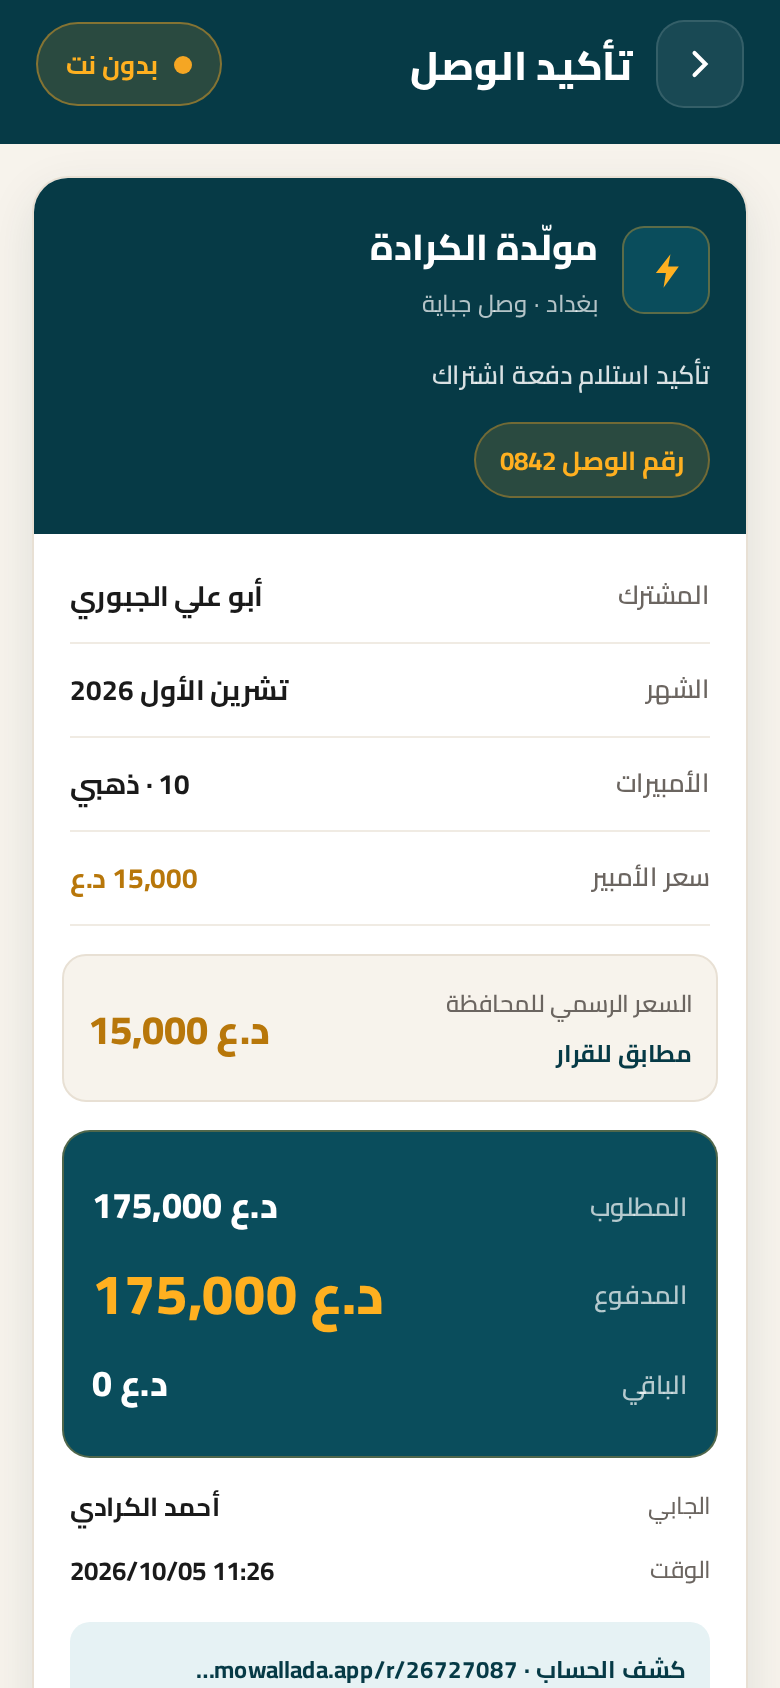
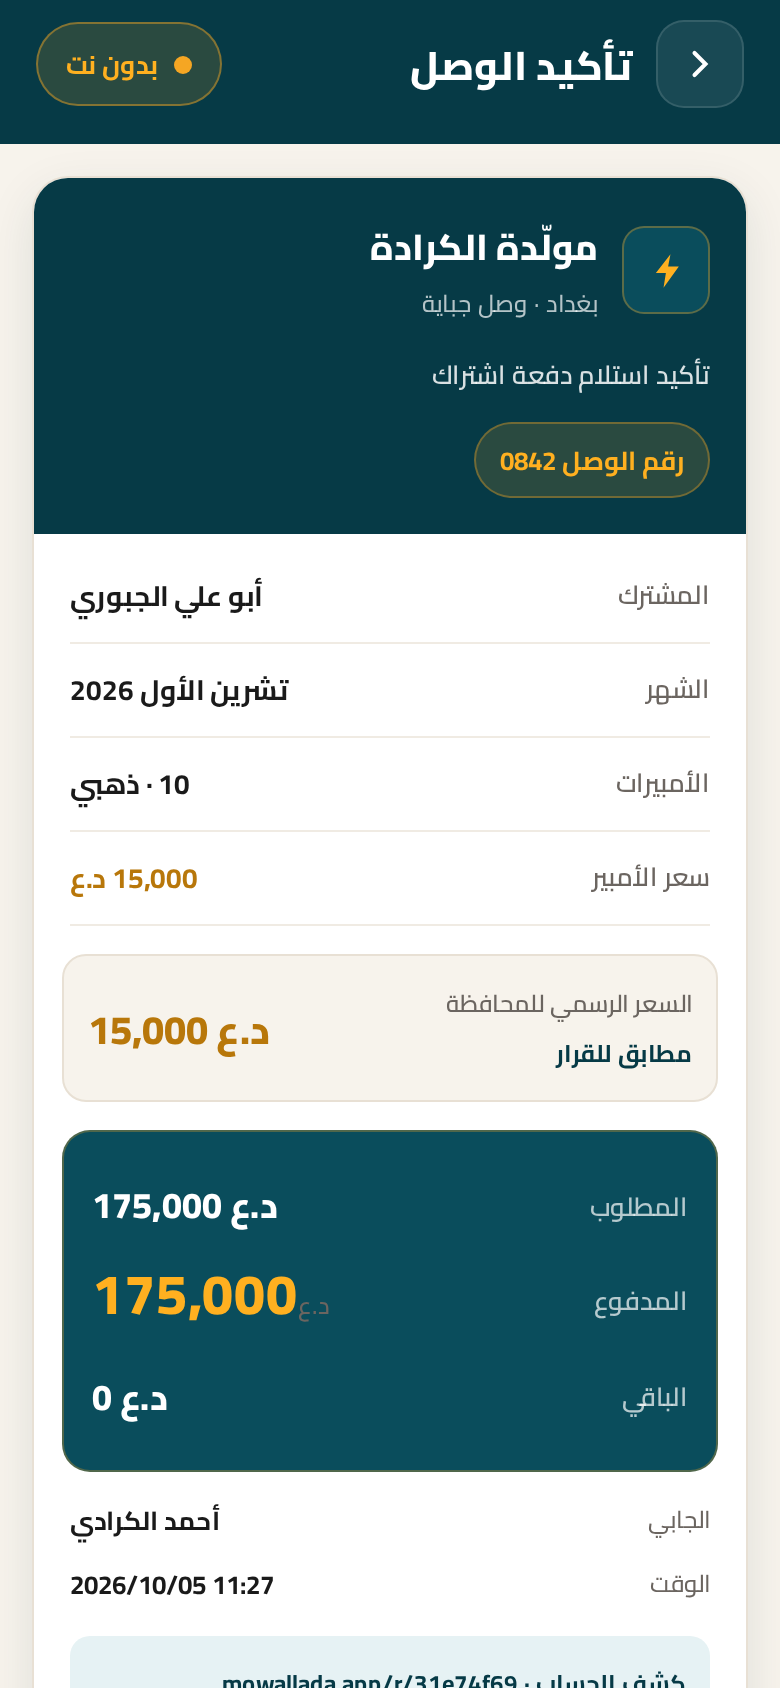
Render IQD amounts as number-then-unit in an LTR row
Stops RTL from flipping AmountText to د.ع 15,000 on the list cards.

diff --git a/src/components/AmountText.tsx b/src/components/AmountText.tsx
@@ -1,7 +1,7 @@
 import React from 'react';
-import { Text, StyleSheet, TextStyle } from 'react-native';
+import { Text, View, StyleSheet, TextStyle, ViewStyle } from 'react-native';
 import { colors, fonts } from '../theme';
-import { formatIqd, formatIqdWithUnit } from '../utils/money';
+import { formatIqd } from '../utils/money';
 
 interface Props {
   amount: number;
@@ -10,38 +10,59 @@ interface Props {
   showUnit?: boolean;
   unitSize?: number;
   style?: TextStyle;
+  containerStyle?: ViewStyle;
 }
 
+/** Always renders as "15,000 د.ع" via an LTR row (number then unit). */
 export function AmountText({
   amount,
   size = 28,
   color = colors.money,
   showUnit = true,
+  unitSize,
   style,
+  containerStyle,
 }: Props) {
-  if (!showUnit) {
-    return (
+  return (
+    <View style={[styles.row, containerStyle]}>
       <Text
-        style={[styles.amt, { fontSize: size, color, lineHeight: size * 1.15 }, style]}
+        style={[
+          styles.amt,
+          { fontSize: size, color, lineHeight: size * 1.2 },
+          style,
+        ]}
       >
         {formatIqd(amount)}
       </Text>
-    );
-  }
-
-  return (
-    <Text
-      style={[styles.amt, { fontSize: size, color, lineHeight: size * 1.15 }, style]}
-    >
-      {formatIqdWithUnit(amount)}
-    </Text>
+      {showUnit ? (
+        <Text
+          style={[
+            styles.unit,
+            {
+              fontSize: unitSize ?? Math.max(12, Math.round(size * 0.4)),
+              lineHeight: size * 1.2,
+            },
+          ]}
+        >
+          {' '}
+          د.ع
+        </Text>
+      ) : null}
+    </View>
   );
 }
 
 const styles = StyleSheet.create({
+  row: {
+    flexDirection: 'row',
+    direction: 'ltr',
+    alignItems: 'baseline',
+  },
   amt: {
     fontFamily: fonts.extraBold,
-    // Keep the whole "15,000 د.ع" run as one LTR unit inside RTL layouts
-    writingDirection: 'ltr',
+  },
+  unit: {
+    fontFamily: fonts.semiBold,
+    color: colors.muted,
   },
 });
